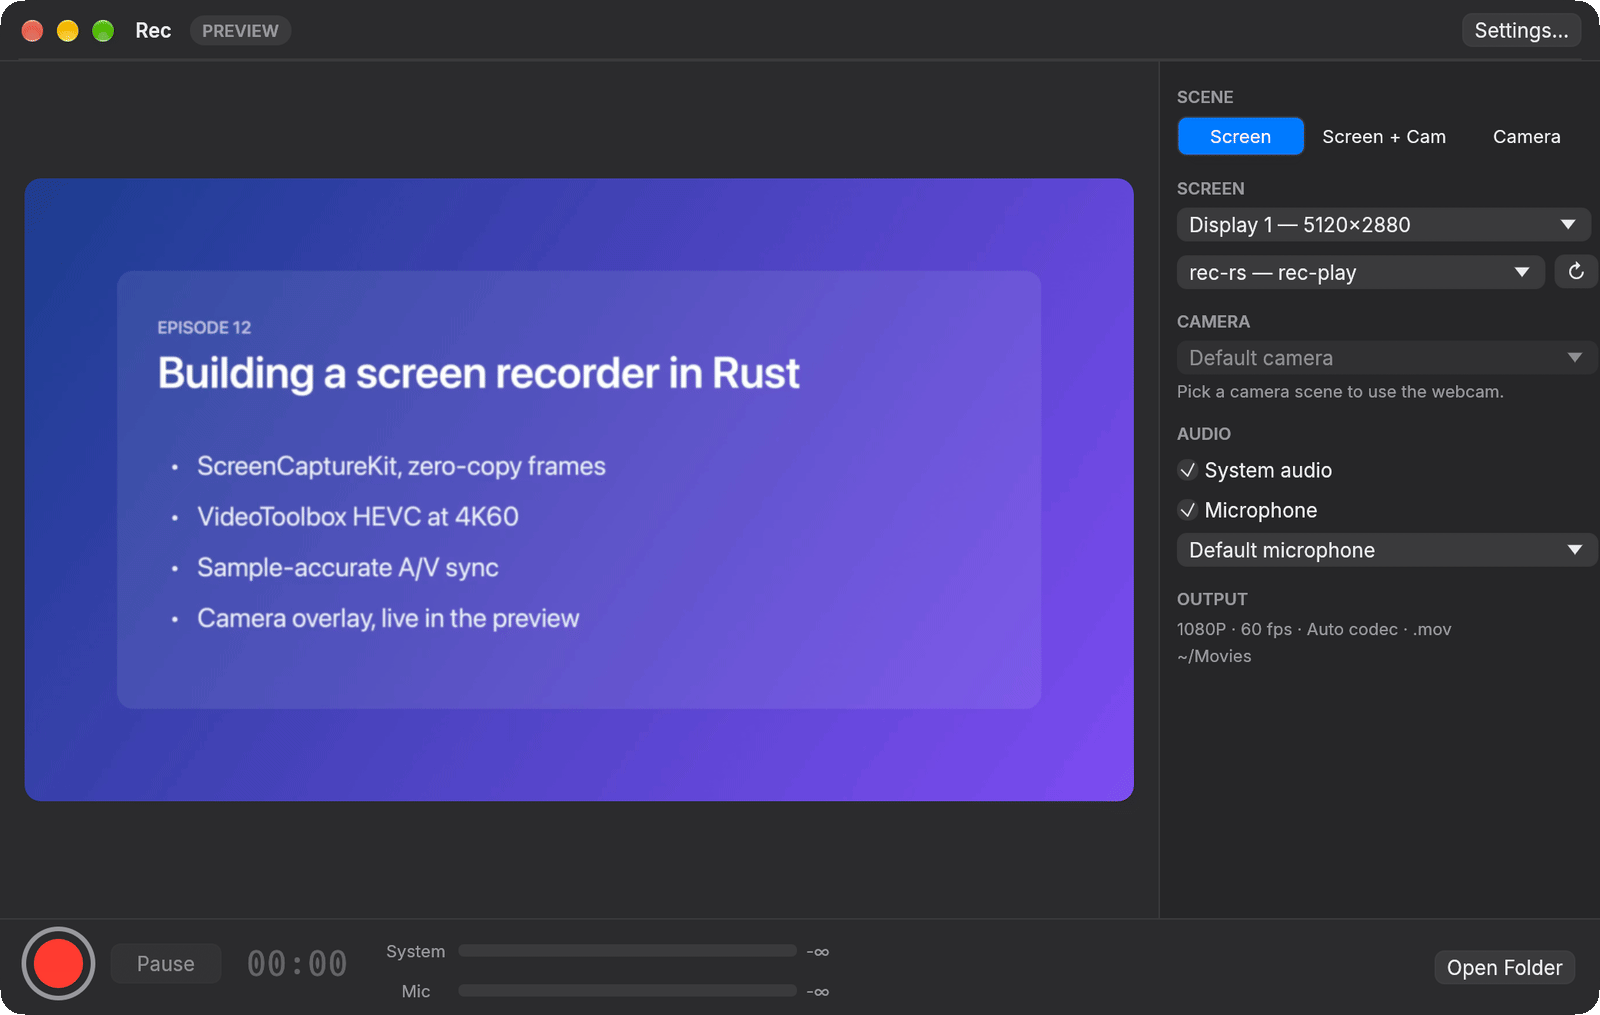
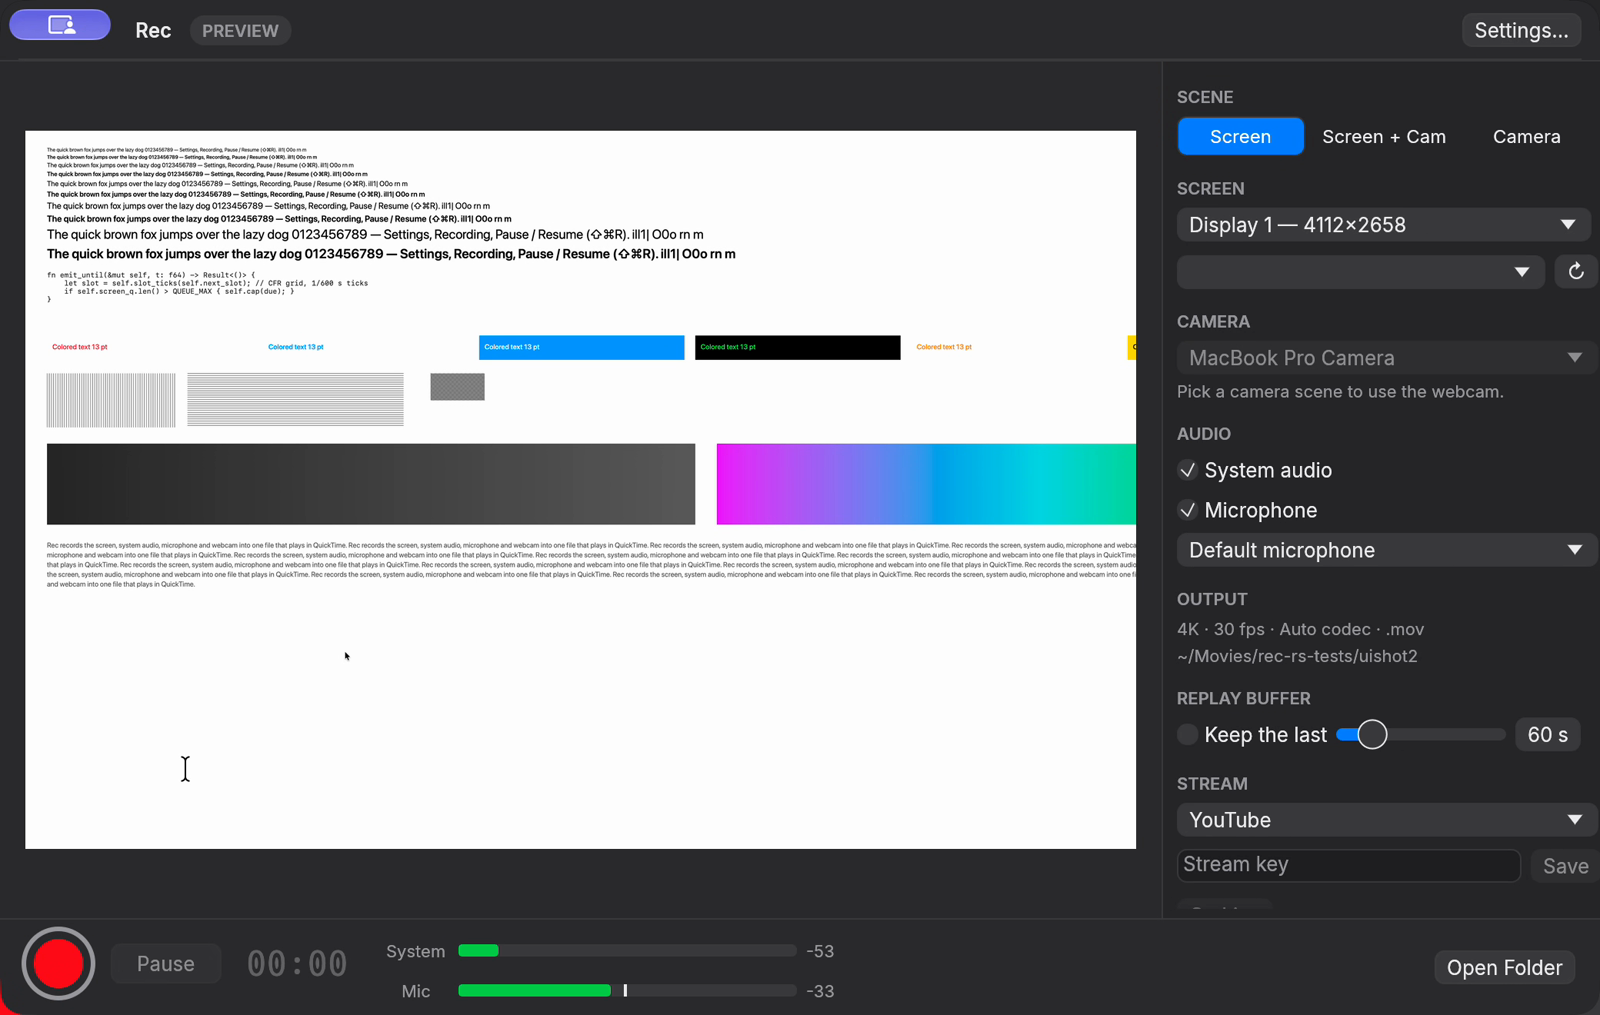
docs: README for the current app (new screenshots, frame shape, camera, audio); progress notes
Also: the live-encode hint in Settings says the size is an upper bound
(the frame keeps its shape).

diff --git a/src/app/ui.rs b/src/app/ui.rs
@@ -784,7 +784,7 @@ fn settings_form(ui: &mut Ui, st: &mut State) {
             let c = s.live_config();
             ui.label(
                 RichText::new(format!(
-                    "{}x{} {} at {:.1} Mb/s (never above the recording size)",
+                    "Up to {}x{} {} at {:.1} Mb/s (the frame keeps its shape, never above the recording size)",
                     c.width,
                     c.height,
                     if c.hevc { "HEVC" } else { "H.264" },

diff --git a/README.md b/README.md
@@ -37,8 +37,9 @@ for its architecture only and no OBS code was copied. See
 
 ![Rec main window: live preview of the recorded screen, scene picker, sources, record button and level meters](docs/screenshots/main.png)
 
-*The main window: a live preview of exactly what gets recorded, the scene picker (Screen,
-Screen + Cam, Camera), sources, record/pause, the timer and level meters.*
+*The main window: a live preview of exactly what gets recorded (here a window showing a test
+card), the scene picker (Screen, Screen + Cam, Camera), sources, audio, replay buffer and
+stream, record/pause, the timer and level meters.*
 
 | Screen + Cam, squircle with a white border | Screen + Cam, circle moved off the corner |
 |---|---|
@@ -46,7 +47,8 @@ Screen + Cam, Camera), sources, record/pause, the timer and level meters.*
 
 *Drag the camera anywhere in the preview, or snap it to a corner. It can be a circle, rounded
 rectangle, square, pill or squircle, with adjustable roundness, border and shadow. Every change
-is live and baked into the recording. The camera here is a virtual camera with a blank feed.*
+is live and baked into the recording. The camera here is a virtual camera with a blank feed
+(these two are from an earlier build; the overlay controls are unchanged).*
 
 | Settings | Menu bar |
 |---|---|
@@ -105,10 +107,10 @@ open dist/Rec.app          # or: dist/rec-rs   (or: dist/rec-rs gui [--settings]
 
 The **main window** contains:
 
-- **Live preview** of exactly what will be recorded, including the webcam overlay. Rec's own
-  windows are excluded from capture. It is rendered at the preview's exact size in pixels
-  (2x on Retina) with the Lanczos scaler and drawn 1:1, color-managed for the display, without
-  copying frames through the CPU. Settings has a low-power option (half resolution, 15 fps),
+- **Live preview** of exactly what will be recorded, including the webcam overlay, edge to
+  edge in the source's shape. Rec's own windows are excluded from capture. It is rendered at
+  the preview's exact size in pixels (2x on Retina) with the Lanczos scaler and drawn 1:1,
+  without copying frames through the CPU. Settings has a low-power option (half resolution, 15 fps),
   and nothing is drawn while the window is hidden or the screen is locked.
 - **Scene**:
   - Screen.
@@ -151,7 +153,8 @@ The **main window** contains:
 The **settings window** (⌘, or the Settings… button) covers:
 
 - Output folder and container (`.mov` or `.mp4`).
-- Resolution: 720p, 1080p, 1440p, 4K or native.
+- Resolution: 720p, 1080p, 1440p, 4K or native. The frame always has the shape of the display
+  or window (4K of a 16:10 display is 3456x2160): no black bars, nothing cropped.
 - Frame rate, codec (auto, H.264, HEVC, ProRes) and bitrate.
 - Cursor and click highlighting.
 - Audio devices, track layout and gains.
@@ -230,7 +233,7 @@ frames, and pauses don't count.
 | `--replay SECS` | off | Keep the last 15–300 s of the live encode in memory; `rec-rs save-replay` writes them to an MP4 next to the output. |
 | `--stream DEST` | | Stream to `youtube`, `twitch`, an `rtmp://`/`rtmps://` URL or a WHIP `http(s)://` URL. Repeatable: one encode feeds every destination. |
 | `--no-record` | | Write no file (replay buffer and/or streaming only). |
-| `--live-resolution` | `1080p` | Live encode size (never above the capture). |
+| `--live-resolution` | `1080p` | Live encode bounding size: the frame keeps its shape and is never above the capture. |
 | `--stream-bitrate` | platform preset | Live video kb/s. By default the platform's recommendation for the size and frame rate: YouTube 2160p60 45 Mb/s H.264 or 35 HEVC (2160p30 35/25, 1440p 24/16, 1080p 12/10); Twitch at most 6 Mb/s and 1080p; others like YouTube. |
 | `--stream-codec` | `auto` | `auto` (HEVC when every destination is YouTube), `h264` or `hevc` (HEVC Main10 over enhanced RTMP or WHIP H.265; a server that refuses it gets H.264). |
 | `--keyframe` | `2` | Live keyframe interval in seconds (0.5–4). |
@@ -310,6 +313,17 @@ rec-rs record --no-record --stream rtmp://localhost/live --stream http://localho
 - **Crash-safe.** Movie fragments are written every 2 s, so a crash or power loss leaves a
   playable file up to the last fragment. A normal stop finalizes a regular movie
   (`ftyp wide mdat moov`).
+- **Edge to edge.** The frame has the source's aspect ratio, so the picture fills it with no
+  letterbox or pillarbox bars. A single window's transparent rounded corners are filled with
+  the window's own edge color instead of encoding as black.
+- **Camera.** In the app the running camera passes from the preview to the recording and
+  back, so a recording starts with the exposure already settled. A camera started cold (CLI)
+  is given 2 s to settle before the file starts, so it never opens on black or dark frames.
+- **Audio quality.** System audio and the mic are captured at 48 kHz; a device at another rate
+  (44.1 kHz USB, 16/24 kHz Bluetooth) is resampled with a windowed-sinc filter that is
+  continuous across buffers. The mix runs through a limiter that keeps it under −1 dBFS
+  instead of clipping. Measured with a sweep, tones and noise played as system audio: flat
+  within 0.1 dB from 50 Hz to 20 kHz, no clicks.
 - **Pause.** Pauses cut whole frame slots out of the timeline. Audio is cut at the exact sample
   and shifted with the video, so there is no gap and no drift.
 

diff --git a/PROGRESS.md b/PROGRESS.md
@@ -1,5 +1,24 @@
 # PROGRESS
 
+## Your fix list (2026-10-12 evening): done
+
+Every item was measured on real recordings in `~/Movies/rec-rs-tests/goal/` (camera clips
+deleted after checking).
+
+| Item | Cause | Fix | Check |
+|---|---|---|---|
+| Black bars and corners | `-r 1080p`/`4k` were exact 16:9 frames, so the 1.547 display was pillarboxed (1920x1080 with black sides). Window captures arrive with transparent rounded corners, which encoded as black. The preview drew a rounded image over black. | Every size keeps the source's shape (1080p = 1670x1080 here, 4K = 3342x2160), even, never upscaled. Scaler and compositor fill edge to edge. Window corners are filled with the window's edge color. Preview drawn square. | Display at 720p/1080p/4K/native and windows at 720p/1080p/native: 0% black pixels on every edge and corner (was 100% on the sides). Preview reaches all four corners. |
+| Green bar on the left | The Lanczos scaler read zeros past the source's edge: Cb = Cr = 0 is green. | Clamp edge mode. | Column 0 of a 1080p recording: (25,42,23) before, neutral (42,42,45) after. |
+| Camera darker | Not the color path (camera 178.2 -> file 178.2). Each recording restarted the camera: 0.5 s of black, then a 2.5 s exposure ramp (Y 117 -> 164). | The warm camera passes preview -> recording -> preview. A cold camera gets 2 s before the file starts. | App recording: camera Y 149 from the first frame, flat. CLI cold start: 147 (was 16, then 117). |
+| Audio quality | Per-buffer linear resampling for non-48 kHz devices (a buzz at buffer edges, aliasing); hard clipping of the mix; live mix ignored the gains; mic stem 128 kb/s, live 160 kb/s. | Streaming windowed-sinc resampler; -1 dBFS limiter; gains in the live mix; mic stem 192 kb/s, live 192 kb/s, live encoder at max quality. | Reference sweep/tones/noise as system audio: flat within 0.1 dB, 50 Hz-20 kHz, no clicks; mix with +6 dB gain peaks at -0.3 dBFS, 0 clipped samples. |
+
+Notes:
+
+- The capture's own system-audio path was already clean. The mic is the raw built-in mic: no
+  noise suppression, and it picks up the speakers.
+- macOS reset the camera grant; I requested it once at 18:40 and it was approved.
+- Your saved settings are 4K: recordings are now 3342x2160 instead of 3840x2160 with bars.
+
 ## Dark preview (your bug report, 2026-10-12 ~11:30): fixed
 
 - **Cause.** The new zero-copy preview texture was created as `BGRA8Unorm_sRGB`. egui treats
@@ -224,7 +243,7 @@ permissions granted. The suite covers:
 |---|---|
 | Screen & System Audio Recording | granted to **Rec** |
 | Microphone | granted (re-approved by you after the 09:12 request) |
-| Camera | granted (re-approved) |
+| Camera | granted (macOS reset it; requested once on 2026-10-12 at 18:40 and approved) |
 
 - **Grant history.** The first request ran on 2026-10-10 at 23:32. All three grants survived
   renaming the executable and every rebuild until the Dock-app change. After macOS reset the mic
